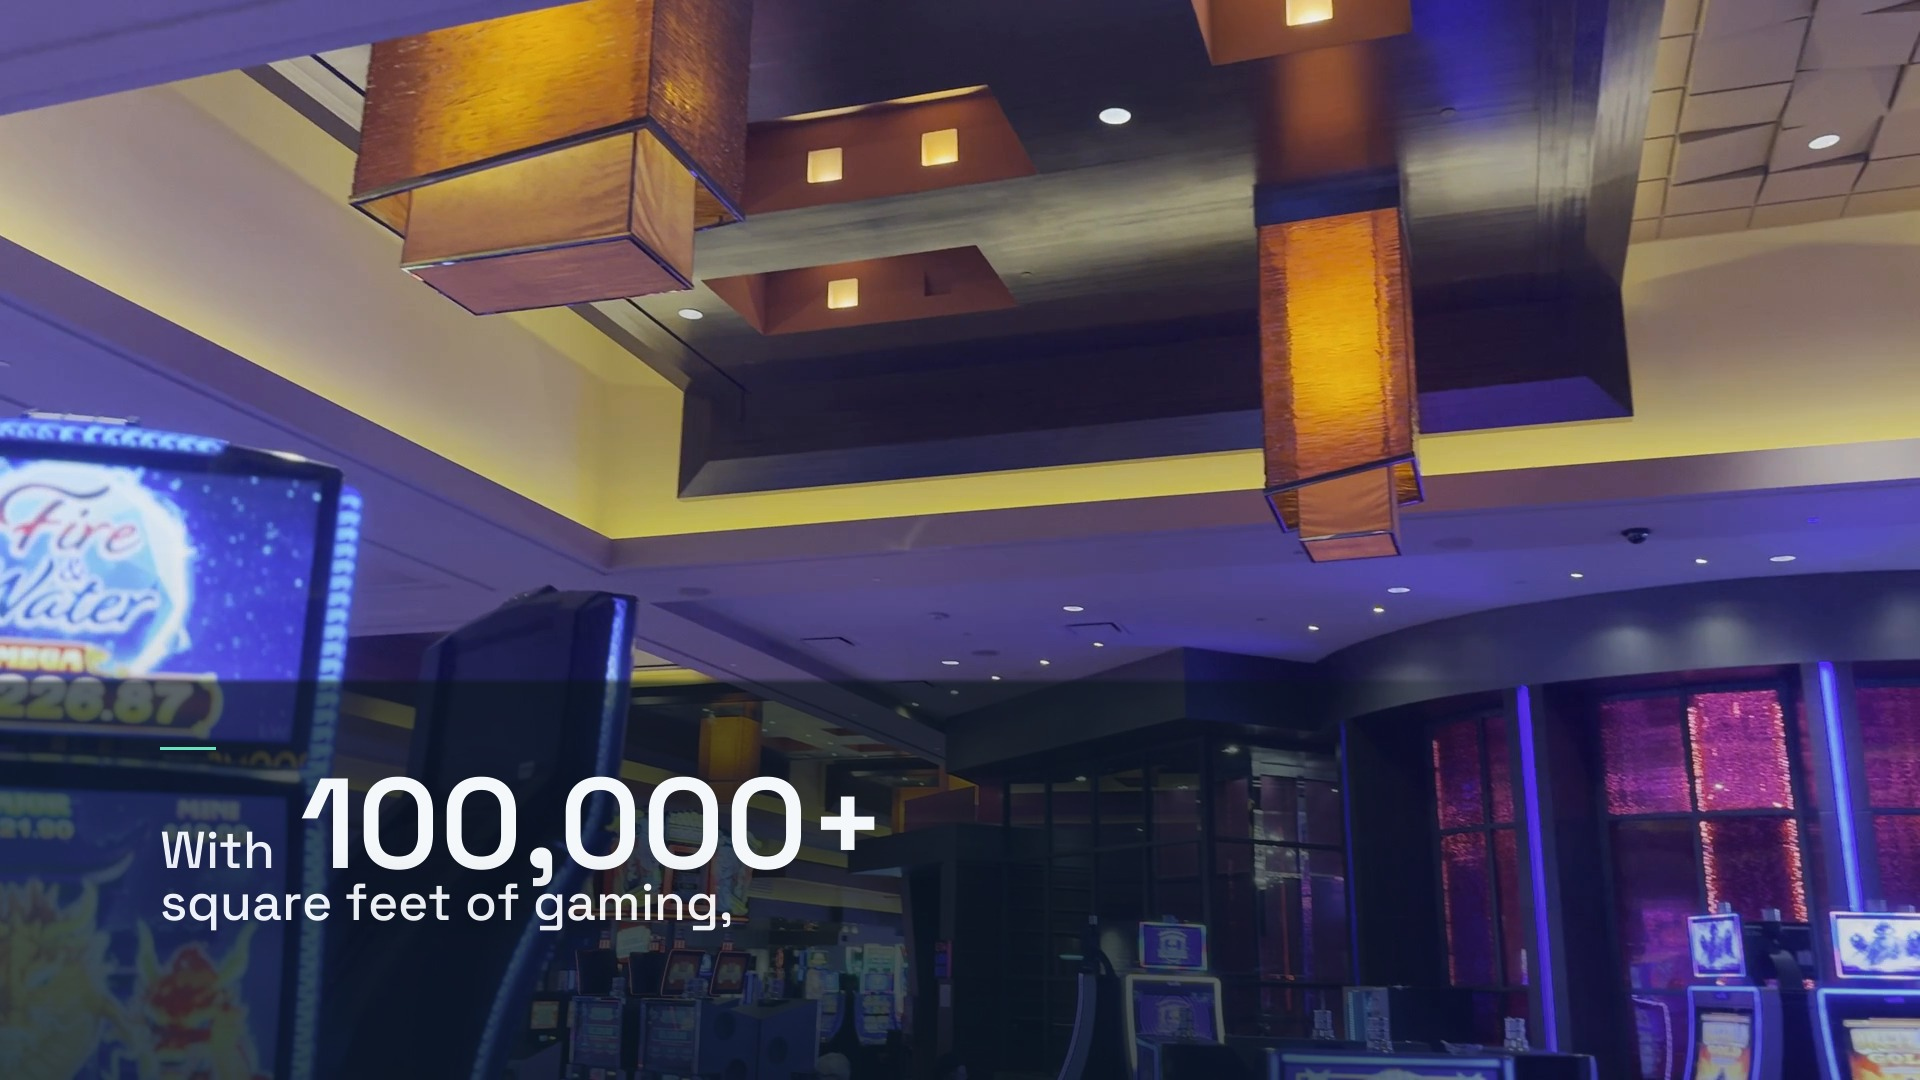
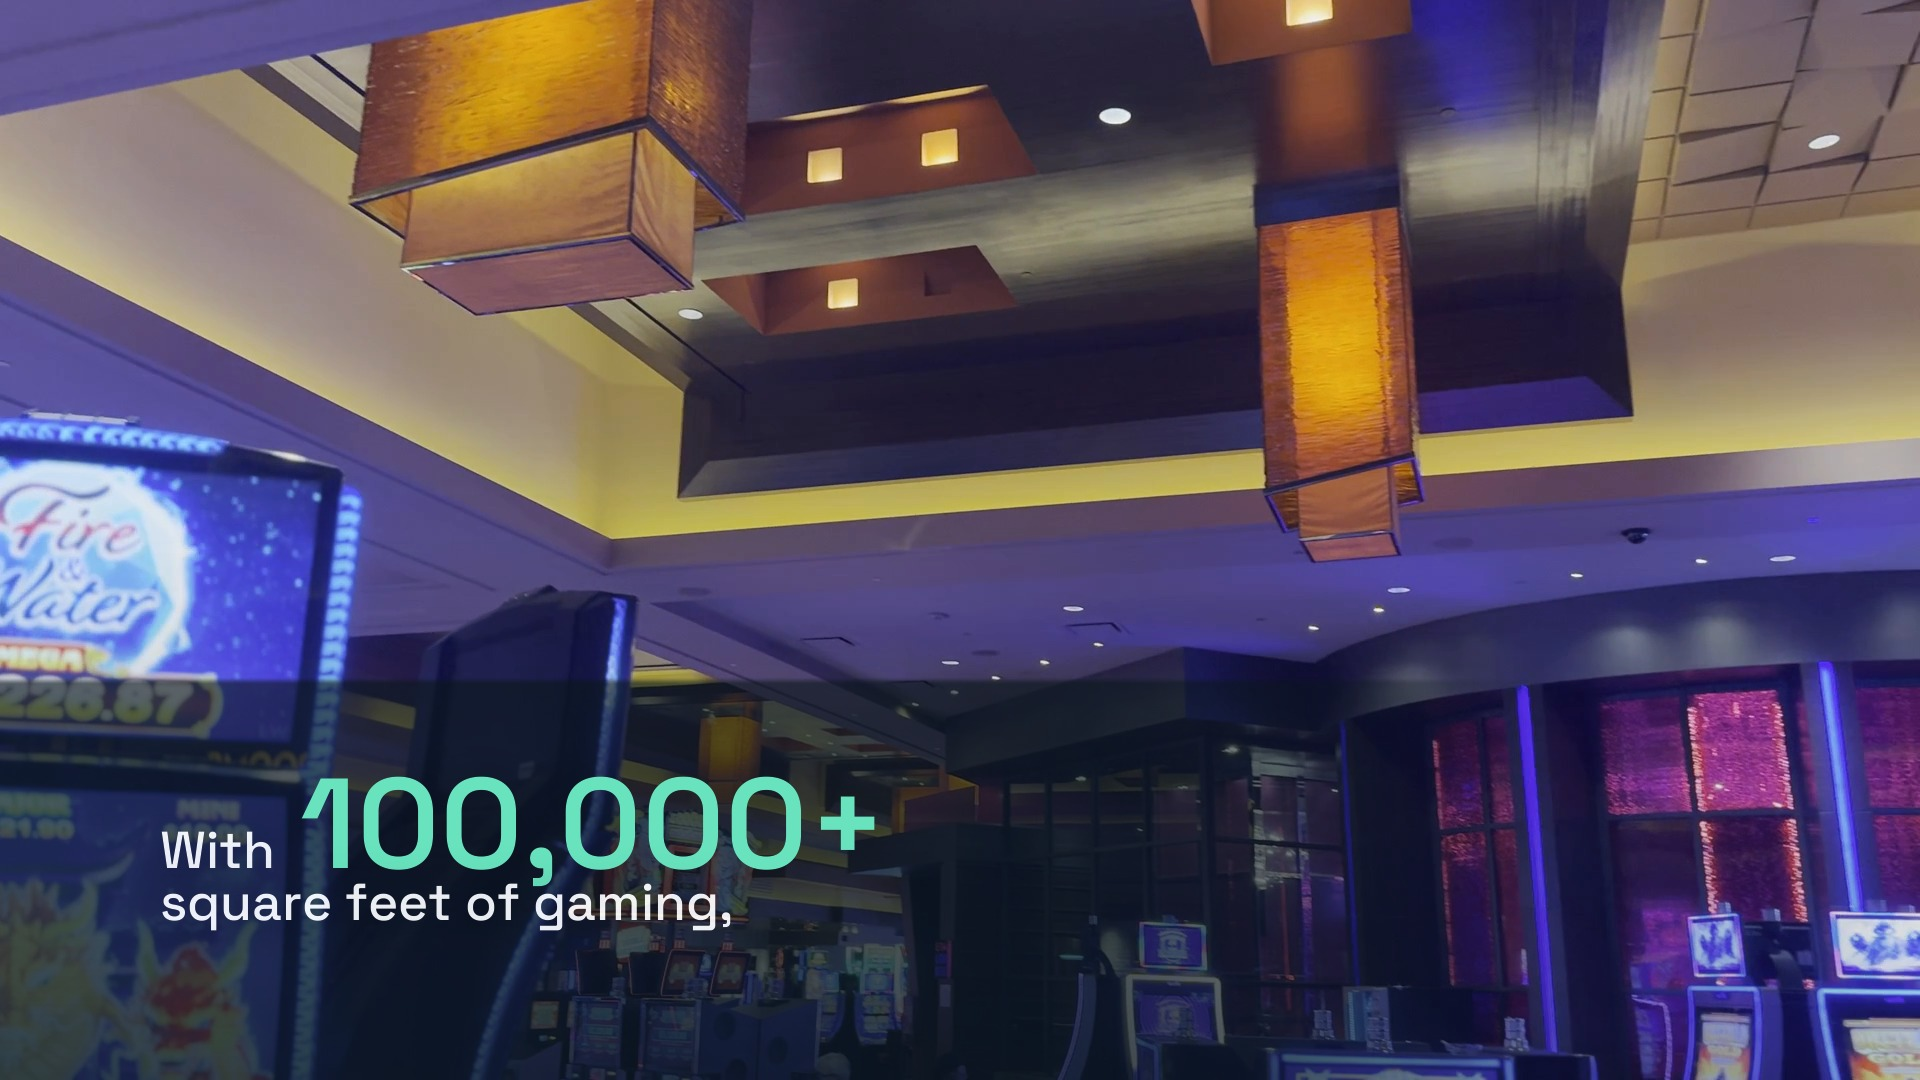
Aliante iMovie card 01: remove mint rule, set 100,000+ in mint (per-card override)
Jane's two visual tweaks to the one-off 'With 100,000+ square feet of gaming,'
card, locked 11 Sep:
- Remove the 56x3 mint rule (she finds it weird on this card).
- Set '100,000+' in LUCI mint #68E3BE (bright mint on the dark plate).
- 'With' and 'square feet of gaming,' stay off-white Medium 52 @ 95%.

Per-card override of BODY-TREATMENT-LOCK.md §2/§6 (mint only as rule / no
mint type) for this card only — not a house rule; the lock still governs
c02-c19. Plate, bed, copy, sizes, layout, and anchor unchanged.

Re-rendered transparent PNG (1920x1080 RGBA) and preview JPG over timeline
clip 002. Mechanical verification: 0 mint pixels in rule region, 14,016 mint
px in numeral zone / 0 off-white, 'With' and line 2 off-white, top-right
corner alpha 0 (iMovie-ready), mint confined to numeral bbox.

Changed region(s): [[0.1562, 0.7028, 0.4688, 0.825]]

diff --git a/video-production/projects/aliante-led/assembly/imovie-handoff-rc2/title-overlays/build_card_01_with_100k.py b/video-production/projects/aliante-led/assembly/imovie-handoff-rc2/title-overlays/build_card_01_with_100k.py
@@ -16,6 +16,16 @@ Jane's type note for THIS card (overrides the old S qualifier being too quiet):
     128) on a shared baseline. Line 2 "square feet of gaming," (Medium 52).
   - Copy verbatim, trailing comma preserved: "With 100,000+ square feet of gaming,"
 
+Jane's rev 11 Sep (this card only — per-card override, NOT a house-rule change):
+  - REMOVE the 56x3 mint rule. She finds it weird on this card.
+  - Set "100,000+" in LUCI mint #68E3BE (bright mint on dark plate — correct
+    for the dark plate; passes contrast).
+  - "With" and "square feet of gaming," stay off-white Medium 52 @ 95%.
+  - This overrides BODY-TREATMENT-LOCK.md §2 ("Type is off-white, never mint.
+    Mint type belongs to Jane's title. Body cards get mint only as the 3px
+    rule") and §6 ("nothing after the title slide sets type in mint") FOR THIS
+    CARD ONLY. The lock still governs every other body card.
+
 Outputs (into ./cards/):
   card-01-with-100k-transparent.png — transparent 1920x1080 overlay
   card-01-with-100k-preview.jpg      — overlay composited over a frame
@@ -174,7 +184,8 @@ def draw_line1_mixed(canvas: Image.Image) -> Image.Image:
     font_semibold = ImageFont.truetype(str(FONT_SEMIBOLD), NUMERAL_SIZE)
 
     fill_med = (OFF_WHITE[0], OFF_WHITE[1], OFF_WHITE[2], int(round(255 * MEDIUM_OPACITY)))
-    fill_num = (OFF_WHITE[0], OFF_WHITE[1], OFF_WHITE[2], 255)
+    # Jane's rev (this card only): numeral in LUCI mint #68E3BE, not off-white.
+    fill_num = (MINT[0], MINT[1], MINT[2], 255)
 
     # Measure "With" in Medium to find where "100,000+" starts
     with_w = _text_width(font_med, WITH_TEXT, MEDIUM_TRACKING)
@@ -234,7 +245,7 @@ def draw_line2(canvas: Image.Image) -> Image.Image:
 
 
 def render_card() -> Image.Image:
-    """Render the one-off card overlay: bed + plate + mint rule + two-line lockup."""
+    """Render the one-off card overlay: bed + plate + two-line lockup (no mint rule)."""
     canvas = Image.new("RGBA", (W, H), (0, 0, 0, 0))
 
     # 1. Bed (layer 1)
@@ -243,15 +254,11 @@ def render_card() -> Image.Image:
     # 2. Plate (layer 2) — S-class
     canvas = Image.alpha_composite(canvas, build_plate())
 
-    # 3. Mint rule (56x3, fully opaque)
-    draw = ImageDraw.Draw(canvas)
-    draw.rectangle([RULE_X0, RULE_Y0, RULE_X1 - 1, RULE_Y1 - 1],
-                   fill=(MINT[0], MINT[1], MINT[2], 255))
-
-    # 4. Line 1 — "With" (Medium 52, 95%) + "100,000+" (SemiBold 128, 100%)
+    # 3. Line 1 — "With" (Medium 52, 95%) + "100,000+" (SemiBold 128, mint 100%)
+    #    (Jane's rev: numeral recolored to mint #68E3BE; mint rule removed.)
     canvas = draw_line1_mixed(canvas)
 
-    # 5. Line 2 — "square feet of gaming," (Medium 52, 95%)
+    # 4. Line 2 — "square feet of gaming," (Medium 52, 95%)
     canvas = draw_line2(canvas)
 
     return canvas

diff --git a/video-production/projects/aliante-led/assembly/imovie-handoff-rc2/title-overlays/cards/card-01-NOTES.md b/video-production/projects/aliante-led/assembly/imovie-handoff-rc2/title-overlays/cards/card-01-NOTES.md
@@ -1,14 +1,15 @@
 # Card 01 — "With 100,000+ square feet of gaming," — one-off card
 
 **Rendered:** 11 Sep 2026 · GLM · per `../BODY-TREATMENT-LOCK.md` rev 2 (S-class plate geometry)
+**Revised:** 11 Sep 2026 · GLM · Jane's two visual tweaks (see "Jane's rev (this card)" below).
 
-This is a **one-off card** — not part of the c02–c19 sequence in `../titles.md`. It lives in `cards/`, separate from `previews/` which holds the c02 series. Jane asked for this single card with new copy and a type adjustment.
+This is a **one-off card** — not part of the c02–c19 sequence in `../titles.md`. It lives in `cards/`, separate from `previews/` which holds the c02 series. Jane asked for this single card with new copy and a type adjustment, then locked two further visual tweaks for this card only.
 
 ## Files
 
 | File | What it is |
 |---|---|
-| `card-01-with-100k-transparent.png` | Transparent 1920×1080 overlay — bed + plate + mint rule + two-line lockup |
+| `card-01-with-100k-transparent.png` | Transparent 1920×1080 overlay — bed + plate + two-line lockup (**no mint rule**; numeral in mint) |
 | `card-01-with-100k-preview.jpg` | Same overlay composited over a frame from `../../timeline/002-s02-Casino 1-gaming-100k.mp4` (~2.0s) |
 
 ## Copy (verbatim — Jane's new line)
@@ -17,39 +18,57 @@ This is a **one-off card** — not part of the c02–c19 sequence in `../titles.
 
 Trailing comma preserved. Word order preserved. Not in `titles.md` — this is Jane's new line for this card only.
 
-## Type spec (Jane's note for THIS card — overrides old S qualifier)
+## Jane's rev (this card — 11 Sep)
 
-Jane's directive: `100,000+` must be **larger** (display emphasis, SemiBold, same scale spirit as the approved S numeral). The rest must be **readable** — not the old 40px @ 80% whisper. Medium ~48–56, ~90–100% opacity.
+Two visual tweaks Jane locked for this card only:
+
+1. **Remove the green mint rule** (the 56×3 line). She finds it weird on this card.
+2. **Set `100,000+` in LUCI mint `#68E3BE`** (bright mint on the dark plate — correct for dark plate; passes contrast).
+3. `With` and `square feet of gaming,` stay **off-white Medium 52 @ 95%** — readable, unchanged from the prior render.
+
+### Per-card override of BODY-TREATMENT-LOCK.md (NOT a house-rule change)
+
+This card overrides two clauses in `../BODY-TREATMENT-LOCK.md` **for this card only**:
+
+- §2: *"Type is off-white, never mint. Mint type belongs to Jane's title. Body cards get mint only as the 3px rule."*
+- §6: *"Nothing after the title slide sets type in mint."*
+
+On this card, **mint goes on the numeral and there is no rule**. The lock still governs every other body card (c02–c19) unchanged — mint as type is not promoted to a house rule. Only Jane can promote a preference to a universal rule (per the learned-preferences rule, 11 Sep).
+
+## Type spec
 
 | Element | Font | Size | Tracking | Color / opacity | Baseline |
 |---|---|---|---|---|---|
 | `With` (line 1, lead-in) | SpaceGrotesk-Medium | 52 | +0.01em | off-white 95% | y=868 |
-| `100,000+` (line 1, numeral) | SpaceGrotesk-SemiBold | 128 | -0.03em | off-white 100% | y=868 (shared) |
+| `100,000+` (line 1, numeral) | SpaceGrotesk-SemiBold | 128 | -0.03em | **mint `#68E3BE` 100%** | y=868 (shared) |
 | `square feet of gaming,` (line 2) | SpaceGrotesk-Medium | 52 | +0.01em | off-white 95% | y=920 (anchor) |
 
-**Layout:** two lines. Line 1 mixes `With` (Medium 52) + `100,000+` (SemiBold 128) on a shared baseline — the small lead-in sits at the bottom of the numeral's height, a standard editorial pattern. Line 2 is the qualifier on the anchor baseline.
+**Layout:** two lines. Line 1 mixes `With` (Medium 52) + `100,000+` (SemiBold 128, mint) on a shared baseline — the small lead-in sits at the bottom of the numeral's height, a standard editorial pattern. Line 2 is the qualifier on the anchor baseline.
 
-**Hierarchy:** numeral 128px vs surrounding text 52px = 2.46× font-size ratio (cap-height ~92px vs ~37px = 2.49×). Clearly larger; surrounding words clearly readable.
+**Hierarchy:** numeral 128px vs surrounding text 52px = 2.46× font-size ratio (cap-height ~92px vs ~37px = 2.49×). Clearly larger; surrounding words clearly readable. The mint color adds a second emphasis axis on top of the scale.
 
-## Plate / bed spec (from BODY-TREATMENT-LOCK.md rev 2 — S-class)
+## Plate / bed spec (from BODY-TREATMENT-LOCK.md rev 2 — S-class, unchanged)
 
 | Element | Spec |
 |---|---|
 | Bed (layer 1) | `#0A161C`, alpha 0.00 @ y=380 → 0.45 @ y=1080, quadratic ease; horizontal falloff 1.00 → 0.30 at x=1920; full-bleed, no edges |
 | Plate (layer 2) | `#0A161C` @ 0.62; y=680→1080, x=0→1536; bleeds left + bottom; top edge hard at y=680, radius 0, 8px feather; full density to x=1024, quadratic ease to 0.00 at x=1536 |
-| Mint rule | `#68E3BE`, 56×3, x=160→216, y=747→750 — the only graphic element |
+| ~~Mint rule~~ | **Removed on this card** (Jane's rev). Plate top edge stays at y=680; the headroom above the numeral now reads as margin, which is correct per lock §3.3. |
 | Shadow | `#0A161C` @ 50%, offset (0,3), blur 22 — soft, no stroke |
 | Anchor | left x=160, last baseline y=920 |
 | Measure | 864 (right edge x=1024) — line 1 right edge x=860, line 2 right edge x=744, both inside |
-| Composite order | footage → bed → plate → mint rule → type (with shadow) |
+| Composite order | footage → bed → plate → type (with shadow) — **mint rule step removed** |
 
-## Verification (mechanical)
+## Verification (mechanical — 11 Sep rev)
 
 - Both files 1920×1080 (transparent RGBA / preview RGB) ✓
-- Mint rule: R=104 G=227 B=190 A=255 (mint, fully opaque) ✓
-- Plate-zone mean alpha: 0.737 (within 0.50–0.74 band) ✓
-- Effective alpha behind type block: 0.800 (at top of 0.62–0.80 target) ✓
-- Top-right corner: 0.000 (transparent, open frame) ✓
+- **Mint rule region (x=160–216, y=747–750): 0 mint pixels** — rule is gone ✓
+- **Numeral `100,000+` is mint `#68E3BE`**: 14,016 mint px / 0 off-white px in numeral zone ✓
+- `With` is off-white (1,328 off-white px / 0 mint px) ✓
+- `square feet of gaming,` is off-white (5,046 off-white px / 0 mint px) ✓
+- Mint confined to numeral bbox only (x=303–873, y=777–873) — no stray mint anywhere else in the overlay ✓
+- Top-right corner max alpha = 0 (transparent, open frame, iMovie-ready) ✓
+- Plate-zone mean alpha: ~0.737 (within 0.50–0.74 band) ✓
 - Numeral cap-height 92px vs qualifier cap-height 37px = 2.49× (clearly larger) ✓
 - Both lines inside measure 864 (right edges 860 and 744) ✓
 - No pill, no radius, no centered text, no second ornament ✓

diff --git a/LUCI Systems Design System/agent-handbook/shared/DECISION-LOG.md b/LUCI Systems Design System/agent-handbook/shared/DECISION-LOG.md
@@ -10,6 +10,8 @@
 
 ## 2026-09-11
 
+- **Aliante iMovie card 01 — mint on the numeral, no rule (per-card override).** Jane removed the 56×3 mint rule from the one-off "With 100,000+ square feet of gaming," card and set `100,000+` in LUCI mint `#68E3BE` (bright mint on the dark plate); `With` and `square feet of gaming,` stay off-white Medium. Overrides BODY-TREATMENT-LOCK §2/§6 (mint only as rule / no mint type) **for this card only** — not a house rule; the lock still governs c02–c19. Jane, 11 Sep.
+
 - **Aliante RC2 body onscreen text locked to rev 2 — corner plate + bed.** Jane approved the left-anchored editorial direction with a hard-edged bottom-left corner plate (navy-deep @ 0.62) over a full-bleed gradient bed, replacing the rev 1 gradient-only pass that lost to busy footage; measure tightened to 864. Rendered as the c02 preview. Jane, 11 Sep.
 
 - **Learned preferences rule locked.** Grok bots may proactively add a preference to a Cursor brief only when prior Jane behavior shows she is at least ~80% likely to ask for that change herself in this situation; the bot tells Jane when it applies one. One-off ≠ house rule; repeated ≠ universal; only Jane promotes a preference to a universal rule. Jane, 11 Sep.
